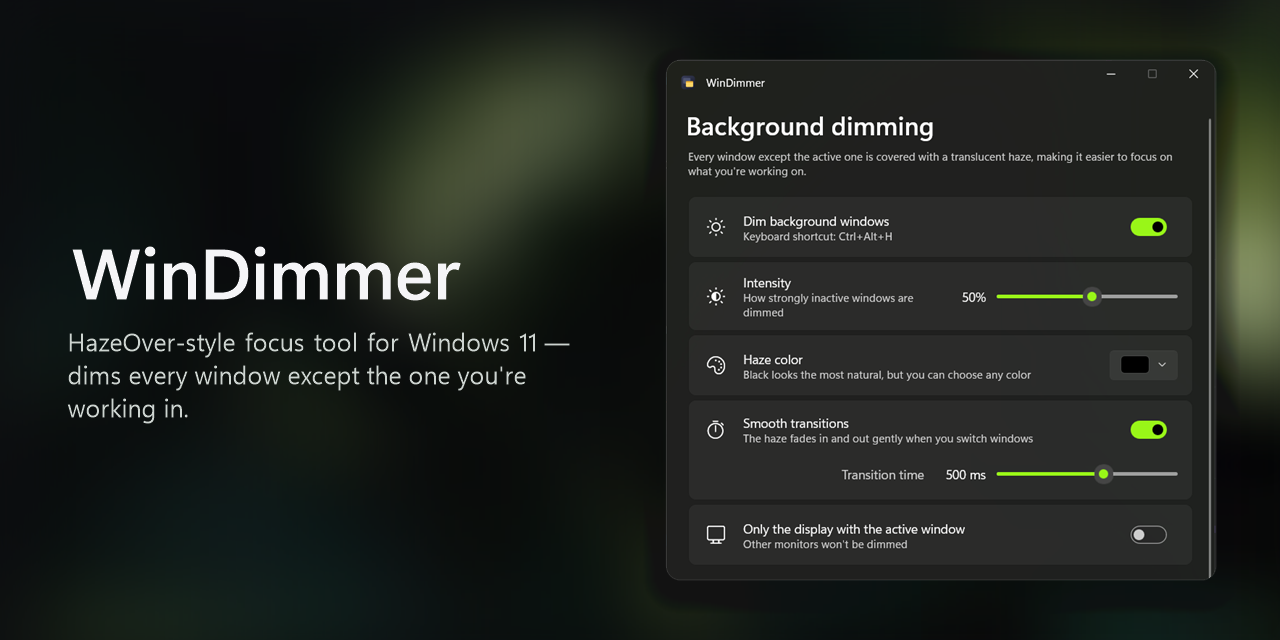
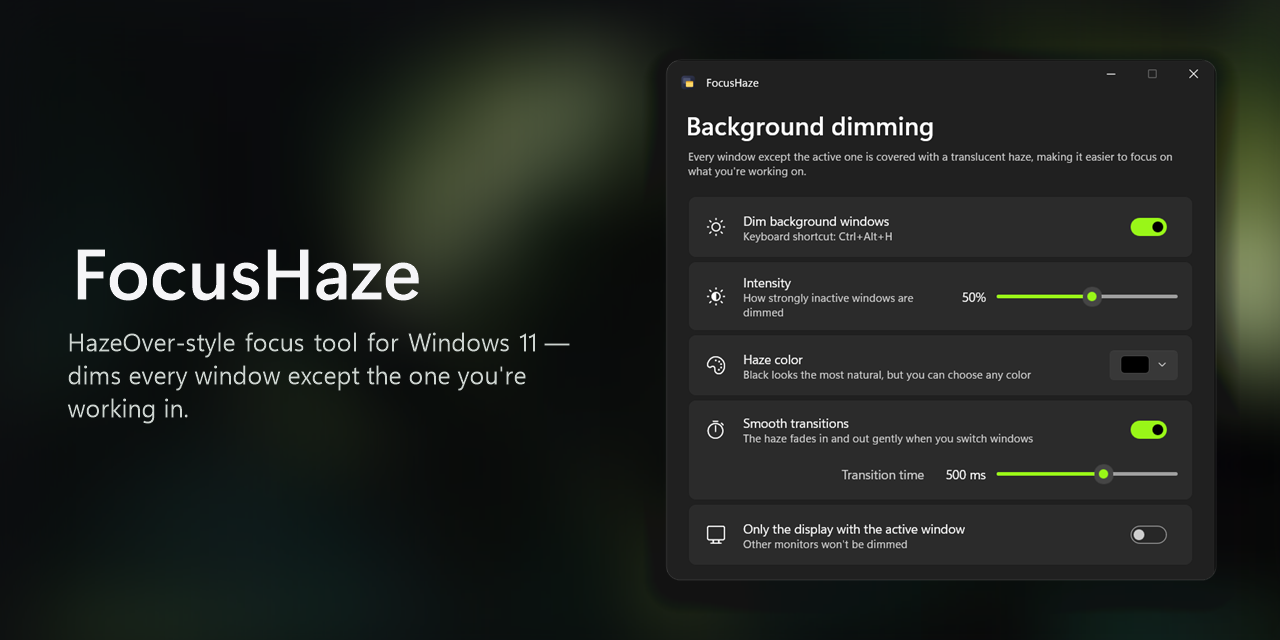
Rename to FocusHaze
"WinDimmer" is already taken in the Microsoft Store. Renames the app, project,
namespaces, window classes, launcher, assets, release package names and docs,
and bumps the version to 1.1.0. Settings from %LOCALAPPDATA%\WinDimmer are
read until the first save, and a "WinDimmer" autostart entry is moved to
"FocusHaze" on first launch.

Changed region(s): [[0.0625, 0.375, 0.375, 0.4688], [0.5625, 0.125, 0.5938, 0.1562]]

diff --git a/MainWindow.xaml b/MainWindow.xaml
@@ -1,10 +1,10 @@
 <?xml version="1.0" encoding="utf-8"?>
 <Window
-    x:Class="WinDimmer.MainWindow"
+    x:Class="FocusHaze.MainWindow"
     xmlns="http://schemas.microsoft.com/winfx/2006/xaml/presentation"
     xmlns:x="http://schemas.microsoft.com/winfx/2006/xaml"
-    xmlns:loc="using:WinDimmer.Localization"
-    Title="WinDimmer">
+    xmlns:loc="using:FocusHaze.Localization"
+    Title="FocusHaze">
 
     <Window.SystemBackdrop>
         <MicaBackdrop />
@@ -19,8 +19,8 @@
         <!-- Custom title bar -->
         <Grid x:Name="AppTitleBar" Height="48" Padding="16,0,0,0">
             <StackPanel Orientation="Horizontal" Spacing="12" VerticalAlignment="Center">
-                <Image Source="ms-appx:///Assets/WinDimmer.png" Width="16" Height="16" />
-                <TextBlock Text="WinDimmer" Style="{StaticResource CaptionTextBlockStyle}" VerticalAlignment="Center" />
+                <Image Source="ms-appx:///Assets/FocusHaze.png" Width="16" Height="16" />
+                <TextBlock Text="FocusHaze" Style="{StaticResource CaptionTextBlockStyle}" VerticalAlignment="Center" />
             </StackPanel>
         </Grid>
 

diff --git a/App.xaml b/App.xaml
@@ -1,6 +1,6 @@
 <?xml version="1.0" encoding="utf-8"?>
 <Application
-    x:Class="WinDimmer.App"
+    x:Class="FocusHaze.App"
     xmlns="http://schemas.microsoft.com/winfx/2006/xaml/presentation"
     xmlns:x="http://schemas.microsoft.com/winfx/2006/xaml">
     <Application.Resources>

diff --git a/Core/TrayHost.cs b/Core/TrayHost.cs
@@ -1,8 +1,8 @@
 using System.Runtime.InteropServices;
-using WinDimmer.Localization;
-using WinDimmer.Native;
+using FocusHaze.Localization;
+using FocusHaze.Native;
 
-namespace WinDimmer.Core;
+namespace FocusHaze.Core;
 
 /// <summary>
 /// Hidden window that owns the notification-area icon, its context menu and the global hotkey.
@@ -10,7 +10,7 @@ namespace WinDimmer.Core;
 /// </summary>
 internal sealed class TrayHost : IDisposable
 {
-    public const string ClassName = "WinDimmer.TrayHost";
+    public const string ClassName = "FocusHaze.TrayHost";
     public const uint WM_SHOW_SETTINGS = Win32.WM_APP + 2;
     public const string HotkeyDisplayName = "Ctrl+Alt+H";
 
@@ -42,7 +42,7 @@ internal sealed class TrayHost : IDisposable
     {
         _enabled = enabled;
         _wndProc = WndProc;
-        _hwnd = Win32.CreateNativeWindow(ClassName, "WinDimmer", 0, 0, _wndProc);
+        _hwnd = Win32.CreateNativeWindow(ClassName, "FocusHaze", 0, 0, _wndProc);
         _taskbarCreatedMessage = Win32.RegisterWindowMessage("TaskbarCreated");
         (_icon, _ownsIcon) = LoadIcon();
 
@@ -60,7 +60,7 @@ internal sealed class TrayHost : IDisposable
 
     private static (IntPtr Icon, bool Owned) LoadIcon()
     {
-        string path = Path.Combine(AppContext.BaseDirectory, "Assets", "WinDimmer.ico");
+        string path = Path.Combine(AppContext.BaseDirectory, "Assets", "FocusHaze.ico");
         IntPtr icon = Win32.LoadImage(IntPtr.Zero, path, Win32.IMAGE_ICON,
             Win32.GetSystemMetrics(Win32.SM_CXSMICON), Win32.GetSystemMetrics(Win32.SM_CYSMICON), Win32.LR_LOADFROMFILE);
         return icon != IntPtr.Zero

diff --git a/Core/AppSettings.cs b/Core/AppSettings.cs
@@ -2,7 +2,7 @@ using System.Globalization;
 using System.Text.Json;
 using System.Text.Json.Serialization;
 
-namespace WinDimmer.Core;
+namespace FocusHaze.Core;
 
 internal sealed class AppSettings
 {
@@ -10,6 +10,10 @@ internal sealed class AppSettings
     public const int MaxIntensity = 90;
 
     private static readonly string FilePath = Path.Combine(
+        Environment.GetFolderPath(Environment.SpecialFolder.LocalApplicationData), "FocusHaze", "settings.json");
+
+    // Versions up to 1.0.3 shipped as "WinDimmer"; their settings are picked up until the first save.
+    private static readonly string LegacyFilePath = Path.Combine(
         Environment.GetFolderPath(Environment.SpecialFolder.LocalApplicationData), "WinDimmer", "settings.json");
 
     private static readonly JsonSerializerOptions JsonOptions = new() { WriteIndented = true };
@@ -60,8 +64,9 @@ internal sealed class AppSettings
     {
         try
         {
-            if (File.Exists(FilePath))
-                return JsonSerializer.Deserialize<AppSettings>(File.ReadAllText(FilePath), JsonOptions) ?? new AppSettings();
+            string path = File.Exists(FilePath) ? FilePath : LegacyFilePath;
+            if (File.Exists(path))
+                return JsonSerializer.Deserialize<AppSettings>(File.ReadAllText(path), JsonOptions) ?? new AppSettings();
         }
         catch (Exception ex) when (ex is IOException or JsonException or UnauthorizedAccessException)
         {

diff --git a/Core/StartupManager.cs b/Core/StartupManager.cs
@@ -1,12 +1,15 @@
 using Microsoft.Win32;
 
-namespace WinDimmer.Core;
+namespace FocusHaze.Core;
 
 /// <summary>Registers the app in the current user's Run key so it starts (in the tray) with Windows.</summary>
 internal static class StartupManager
 {
     private const string RunKeyPath = @"Software\Microsoft\Windows\CurrentVersion\Run";
-    private const string ValueName = "WinDimmer";
+    private const string ValueName = "FocusHaze";
+
+    // Run value written by versions up to 1.0.3, when the app was called "WinDimmer".
+    private const string LegacyValueName = "WinDimmer";
 
     private static string Command => $"\"{Environment.ProcessPath}\" --tray";
 
@@ -27,5 +30,15 @@ internal static class StartupManager
             key.SetValue(ValueName, Command);
         else
             key.DeleteValue(ValueName, throwOnMissingValue: false);
+    }
+
+    /// <summary>Carries "start with Windows" over from the old app name to this executable.</summary>
+    public static void MigrateLegacy()
+    {
+        using RegistryKey key = Registry.CurrentUser.CreateSubKey(RunKeyPath);
+        if (key.GetValue(LegacyValueName) is null)
+            return;
+        key.DeleteValue(LegacyValueName, throwOnMissingValue: false);
+        key.SetValue(ValueName, Command);
     }
 }

diff --git a/Launcher/Program.cs b/Launcher/Program.cs
@@ -4,7 +4,7 @@ using System.IO;
 using System.Runtime.InteropServices;
 using System.Text;
 
-namespace WinDimmer.Launcher
+namespace FocusHaze.Launcher
 {
     /// <summary>
     /// Tiny .NET Framework stub that sits in the root of the release folder and starts the real app
@@ -14,7 +14,7 @@ namespace WinDimmer.Launcher
     internal static class Program
     {
         private const string AppFolder = "app";
-        private const string AppExe = "WinDimmer.exe";
+        private const string AppExe = "FocusHaze.exe";
 
         [STAThread]
         private static int Main(string[] args)
@@ -23,8 +23,8 @@ namespace WinDimmer.Launcher
             if (!File.Exists(target))
             {
                 MessageBox(IntPtr.Zero,
-                    "Can't find " + Path.Combine(AppFolder, AppExe) + ".\n\nExtract the whole WinDimmer folder from the zip and try again.",
-                    "WinDimmer", 0x10 /* MB_ICONERROR */);
+                    "Can't find " + Path.Combine(AppFolder, AppExe) + ".\n\nExtract the whole FocusHaze folder from the zip and try again.",
+                    "FocusHaze", 0x10 /* MB_ICONERROR */);
                 return 1;
             }
 

diff --git a/MainWindow.xaml.cs b/MainWindow.xaml.cs
@@ -6,13 +6,13 @@ using Microsoft.UI.Xaml.Controls;
 using Microsoft.UI.Xaml.Controls.Primitives;
 using Microsoft.UI.Xaml.Media;
 using Windows.Graphics;
-using WinDimmer.Core;
-using WinDimmer.Localization;
-using WinDimmer.Native;
+using FocusHaze.Core;
+using FocusHaze.Localization;
+using FocusHaze.Native;
 using WinRT.Interop;
 using Color = Windows.UI.Color;
 
-namespace WinDimmer;
+namespace FocusHaze;
 
 public sealed partial class MainWindow : Window
 {
@@ -31,7 +31,7 @@ public sealed partial class MainWindow : Window
 
         ExtendsContentIntoTitleBar = true;
         SetTitleBar(AppTitleBar);
-        AppWindow.SetIcon(Path.Combine(AppContext.BaseDirectory, "Assets", "WinDimmer.ico"));
+        AppWindow.SetIcon(Path.Combine(AppContext.BaseDirectory, "Assets", "FocusHaze.ico"));
         if (AppWindow.Presenter is OverlappedPresenter presenter)
             presenter.IsMaximizable = false;
         SizeAndCenter(620, 760);

diff --git a/Localization/Loc.cs b/Localization/Loc.cs
@@ -1,7 +1,7 @@
 using System.Globalization;
 using System.Resources;
 
-namespace WinDimmer.Localization;
+namespace FocusHaze.Localization;
 
 /// <summary>Looks up UI strings from Strings.*.resx for the selected (or system) language.</summary>
 internal static class Loc
@@ -10,7 +10,7 @@ internal static class Loc
     public static readonly string[] SupportedLanguages =
         ["en", "pl", "de", "fr", "es", "it", "pt", "nl", "uk", "ru", "tr", "ja", "ko", "zh-Hans"];
 
-    private static readonly ResourceManager Resources = new("WinDimmer.Localization.Strings", typeof(Loc).Assembly);
+    private static readonly ResourceManager Resources = new("FocusHaze.Localization.Strings", typeof(Loc).Assembly);
     private static readonly CultureInfo SystemCulture = CultureInfo.CurrentUICulture;
 
     public static CultureInfo Culture { get; private set; } = SystemCulture;

diff --git a/Core/DimController.cs b/Core/DimController.cs
@@ -1,6 +1,6 @@
-using WinDimmer.Native;
+using FocusHaze.Native;
 
-namespace WinDimmer.Core;
+namespace FocusHaze.Core;
 
 /// <summary>
 /// Watches foreground/minimize/destroy events system-wide and keeps the haze positioned under the active window.
@@ -44,9 +44,9 @@ internal sealed class DimController : IDisposable
     public DimController(AppSettings settings)
     {
         _settings = settings;
-        _haze = new DimOverlay("WinDimmer.Overlay", settings.ColorRef);
+        _haze = new DimOverlay("FocusHaze.Overlay", settings.ColorRef);
         _haze.DisplayChanged += () => Refresh();
-        _transition = new DimOverlay("WinDimmer.TransitionOverlay", settings.ColorRef);
+        _transition = new DimOverlay("FocusHaze.TransitionOverlay", settings.ColorRef);
         _ownWindows.Add(_haze.Handle);
         _ownWindows.Add(_transition.Handle);
 

diff --git a/App.xaml.cs b/App.xaml.cs
@@ -1,14 +1,14 @@
 using Microsoft.UI.Dispatching;
 using Microsoft.UI.Xaml;
-using WinDimmer.Core;
-using WinDimmer.Localization;
-using WinDimmer.Native;
+using FocusHaze.Core;
+using FocusHaze.Localization;
+using FocusHaze.Native;
 
-namespace WinDimmer;
+namespace FocusHaze;
 
 public partial class App : Application
 {
-    private const string MutexName = @"Local\WinDimmer.SingleInstance";
+    private const string MutexName = @"Local\FocusHaze.SingleInstance";
 
     private static Mutex? s_instanceMutex;
 
@@ -45,6 +45,7 @@ public partial class App : Application
 
         _dispatcher = DispatcherQueue.GetForCurrentThread();
         Settings = AppSettings.Load();
+        StartupManager.MigrateLegacy();
         Loc.SetLanguage(Settings.Language);
 
         _dimmer = new DimController(Settings);

diff --git a/Core/DimOverlay.cs b/Core/DimOverlay.cs
@@ -1,6 +1,6 @@
-using WinDimmer.Native;
+using FocusHaze.Native;
 
-namespace WinDimmer.Core;
+namespace FocusHaze.Core;
 
 /// <summary>
 /// A click-through, layered Win32 window that paints a solid haze with an animatable opacity.
@@ -37,7 +37,7 @@ internal sealed class DimOverlay : IDisposable
     public DimOverlay(string className, uint colorRef)
     {
         _wndProc = WndProc;
-        _hwnd = Win32.CreateNativeWindow(className, "WinDimmer Overlay", Win32.WS_POPUP,
+        _hwnd = Win32.CreateNativeWindow(className, "FocusHaze Overlay", Win32.WS_POPUP,
             Win32.WS_EX_LAYERED | Win32.WS_EX_TRANSPARENT | Win32.WS_EX_TOOLWINDOW | Win32.WS_EX_NOACTIVATE,
             _wndProc);
         SetColor(colorRef);

diff --git a/Localization/Localize.cs b/Localization/Localize.cs
@@ -1,7 +1,7 @@
 using Microsoft.UI.Xaml;
 using Microsoft.UI.Xaml.Controls;
 
-namespace WinDimmer.Localization;
+namespace FocusHaze.Localization;
 
 /// <summary>
 /// Attached property for XAML: <c>loc:Localize.Key="Intensity_Title"</c> fills a TextBlock's Text
